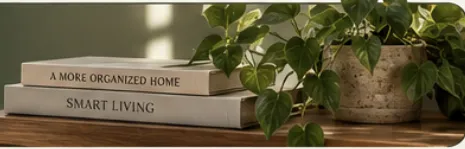
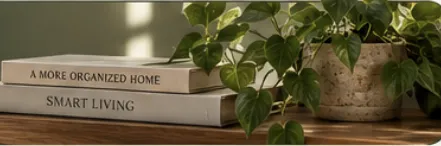
Correct original artwork crops and remove duplicated phone labels

diff --git a/components/marketing/HomeMarketingView.tsx b/components/marketing/HomeMarketingView.tsx
@@ -1,6 +1,6 @@
 import type { HomepageContent } from "@/lib/cms/schema";
 import { MarketingText } from "@/components/marketing/MarketingContent";
-import { BookOpen, FileText, Folder, Home, ShieldCheck } from "lucide-react";
+import { Home } from "lucide-react";
 import JitterPhone from "./JitterPhone";
 import styles from "./JitterHome.module.css";
 
@@ -18,7 +18,6 @@ export default function HomeMarketingView({ content }: { content: HomepageConten
           <a className={styles.brand} href="/" aria-label="Home Tech Vault home"><img src="/images/jitter/logo.webp" alt="" width={38} height={42} /><span>Home Tech Vault</span></a>
           <nav aria-label="Main navigation"><a href="/explore">Explore</a><a href="/for-realtors">For Realtors</a><a href="/pricing">Pricing</a><a className={styles.login} href="/login">Login</a></nav>
         </header>
-        {content.announcement && <p className={styles.announcement}>{content.announcement}</p>}
         <section className={styles.hero} aria-label="Your home has a memory">
           <div className={styles.heroCopy}>
             <p className={styles.eyebrow}>A smarter home starts here</p>
@@ -27,19 +26,21 @@ export default function HomeMarketingView({ content }: { content: HomepageConten
             <a className={styles.primary} href={appStore}>Download on the App Store</a>
           </div>
           <div className={styles.heroPreview}>
-            <div className={styles.details} aria-label="Example saved home information">
-              <div><FileText /><p><strong>Model number</strong><small>Saved with your device</small></p></div>
-              <div><ShieldCheck /><p><strong>Warranty</strong><small>Know what’s covered</small></p></div>
-              <div><BookOpen /><p><strong>Manual found</strong><small>Ready when you need it</small></p></div>
-            </div>
             <JitterPhone />
           </div>
         </section>
         <section id="memory" className={styles.cards} aria-label="What your home remembers">
-          <article className={`${styles.card} ${styles.bought}`}><span className={styles.quote} aria-hidden="true">“</span><h2>Bought years ago.<br />Needed today.</h2><span className={styles.rule} /><img src="/images/jitter/books-plant.webp" alt="Books and a green houseplant" /></article>
-          <article className={`${styles.card} ${styles.documents}`}><Folder aria-hidden="true" /><h2>Manuals,<br />warranties,<br />and receipts.</h2><img src="/images/jitter/documents.webp" alt="A tidy stack of home manuals, warranties, and receipts" /></article>
-          <article className={`${styles.card} ${styles.record}`}><Home aria-hidden="true" /><h2>One home.<br />One record.</h2><span className={styles.rule} /><img src="/images/jitter/home-record.webp" alt="Line illustration of a home" /></article>
-          <article className={`${styles.card} ${styles.connected}`}><img src="/images/jitter/kitchen.webp" alt="Kitchen appliances and a smart thermostat" /><h2>Everything<br />stays connected.</h2></article>
+          {[
+            ["bought-card", "Bought years ago. Needed today.", 434],
+            ["documents-card", "Manuals, warranties, and receipts.", 410],
+            ["record-card", "One home. One record.", 346],
+            ["connected-card", "Everything stays connected.", 590],
+          ].map(([asset, title, width]) => (
+            <article key={asset} className={styles.artCard}>
+              <h2 className={styles.srOnly}>{title}</h2>
+              <img src={`/images/jitter/${asset}.webp`} alt="" width={width as number} height={399} />
+            </article>
+          ))}
         </section>
         <section className={styles.banner}><h2>Your home information, finally organized.</h2><a href="/demo">See how it works <span aria-hidden="true">→</span></a></section>
         <footer className={styles.footer}>
